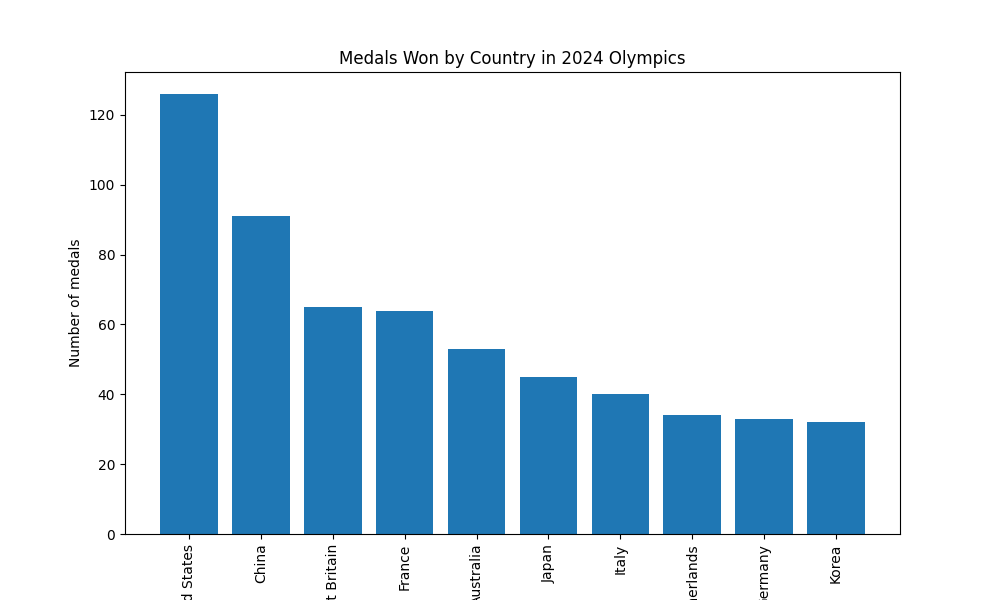
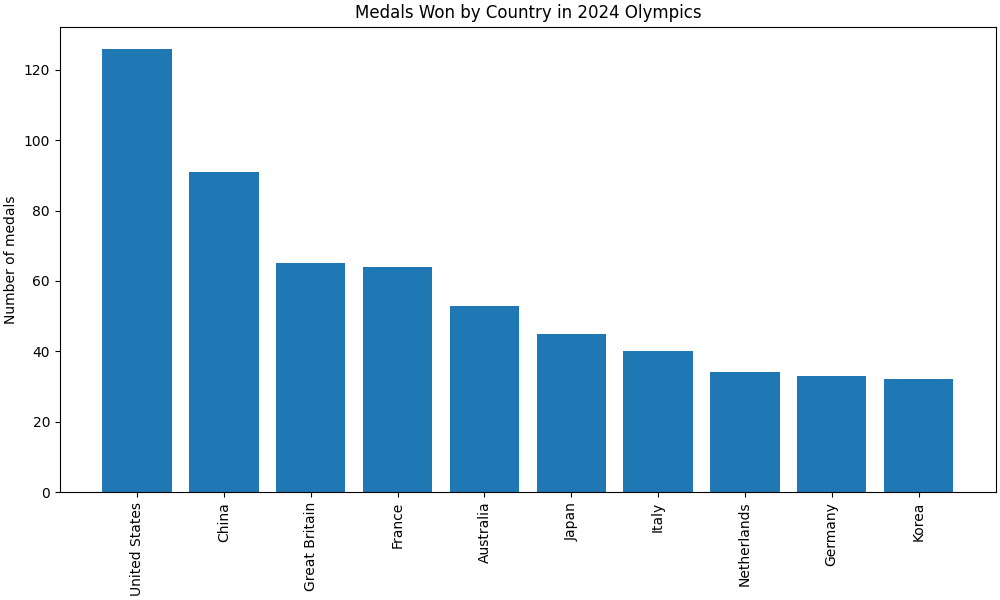
Some updates

diff --git a/Lesson04/4_1_GraphingBasics.md b/Lesson04/4_1_GraphingBasics.md
@@ -40,7 +40,16 @@ To make a graph understandable, we need to add a few important elements to our g
 
 __All__ graphs need to begin with scales and labels (including a title). Throughout the semester, I will be watching to see if your graphs have scales and labels. *Graphs without scales and labels will not receive full credit*. So, be sure to begin every graph with the scale and label
 
-For the graphs above, I used a publicly-available dataset looking at the gas mileage of cars in the 1970's and the early 1980's. In the rest of this lesson, we'll use this dataset to learn how to make and read these graphs:
+For the graphs above, I used a publicly-available dataset looking at the gas mileage of cars in the 1970's and the early 1980's. Here is a sample of the data available in this dataset:
+
+| mpg   | cylinders | displacement | horsepower | weight | acceleration | model_year | origin | name |
+| :---: | :-------: | :----------: | :--------: | :----: | :----------: | :--------: | :----: | :--- |
+| 18.0  | 8         | 307.0        | 130.0      | 3504   | 12.0         | 1970       | USA    | chevrolet chevelle malibu | 
+| 15.0  | 8         | 350.0        | 165.0      | 3693   | 11.5         | 1970       | USA    | buick skylark 320 | 
+
+There are 398 cars in this dataset. 
+
+In the rest of this lesson, we'll use this data to learn how to make and read these graphs:
 
 | Quantitative Graphs             | Categorical Graphs   |
 | :-----------------------------: | :------------------: |

diff --git a/Lesson04/4_2_Bargraphs.md b/Lesson04/4_2_Bargraphs.md
@@ -19,7 +19,7 @@ Reading sections are from the [Introductory Statistics Textbook](../Resources/Op
 
 ## Lesson
 ### The Bargraph
-The first graph we'll look at is the __bargraph__ (sometimes called a __barplot__). The purpose of a bargraph is to show how many samples we have in different categories. For example, let's look at the number of cars in our sample for each year:
+The first graph we'll look at is the __bargraph__ (sometimes called a __barplot__). *Bargraphs are graphs to look at the frequency of __categorical__ variables.* In our cars' gas mileage dataset, we have the model year for each sample car. Let's look at the number of cars in our sample for each year:
 
 ![Bar graph of cars by model year](./images/Fig4_2_Bargraph.png)
 
